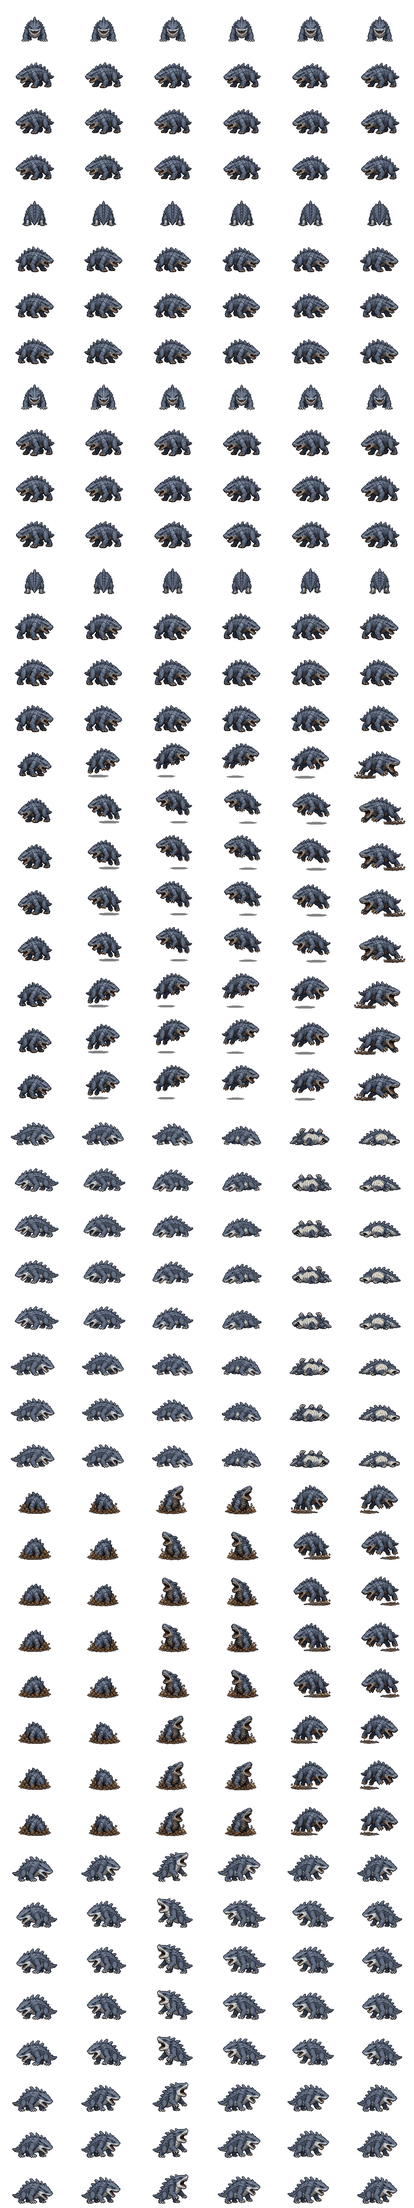
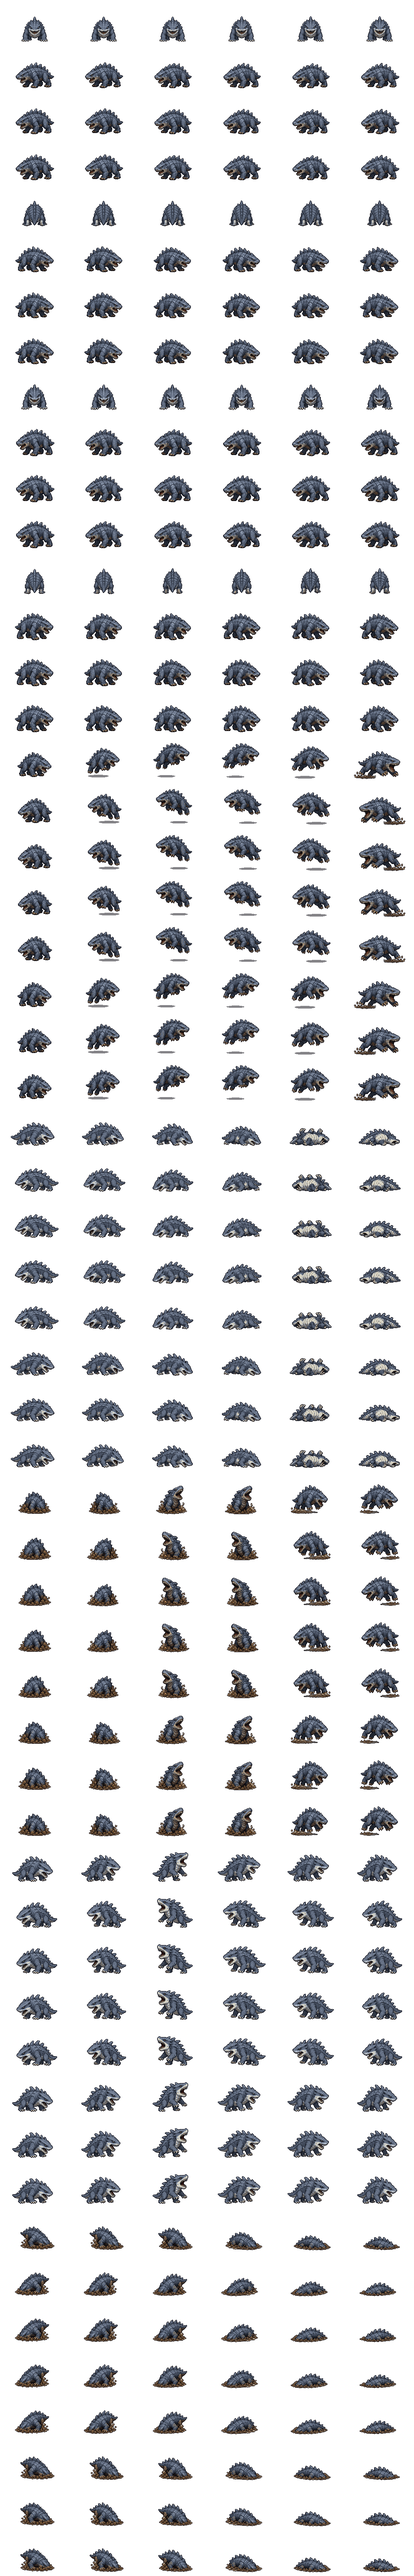
DEEP16: the bulette burrows -- under the road as a mound, up beside you, its Burrow and Emerge rows
SRD 5.1 burrow 40 ft (foes.js; "the burrow is not read" retired). Under the ground it is out of
every reach (u.under for the look, u.ethereal for the rules: no blow, spell or opportunity attack,
it passes under feet) and drawn as the last frame of its Burrow row, the mound and its spines
sliding where it goes. ai.js burrower: up with someone in reach it fights (brute) unless bloodied
with two at it; otherwise it dives, goes under to the weakest it can reach and comes up beside
them, or 15-30 ft off when its Deadly Leap is ready; it stays up through the party's turns, and
never goes through the rock (or a map marked noBurrow). The Breach starts it under the road.
tools/bulette-sheet.py cuts the Burrow row it had shelved since 09-29; pixelate.py learns the
row's name. Bench: the Breach 6/6 won, about 4 rounds; dev/check.py GREEN.

diff --git a/deep16/js/ai.js b/deep16/js/ai.js
@@ -47,7 +47,7 @@
     if (u.conds.recoiling) { delete u.conds.recoiling; B.card(['{g}' + the(B, u) + ' recoils from the light, shrinking up away from it: no turn.{/}']); yield 30; return; }
     if (u.hp <= 0) { B.card(['{g}' + u.name + ' is down.{/}']); yield 30; return; }
     if (!RU.canAct(u) && !u.ethereal) { B.card(['{g}' + (u.side === 'foe' ? the(B, u) : u.name) + (u.conds.asleep ? ' sleeps.' : u.conds.paralyzed ? ' is held fast.' : u.conds.stunned ? ' is stunned.' : ' cannot act.') + '{/}']); yield 30; D.magic.endTurn(B, u); return; }
-    if (!u.ethereal) B.focus(u);
+    if (!u.ethereal || u.under) B.focus(u); // (a burrower under the ground: the camera on its mound)
     // the clacker strikes its hooks together as its turn begins, the clacking that is their speech (10-01, Griz's sheet's CLACK row;
     // data/foes.js clacker): the row plays once (js/ui.js), a clack on each strike, then the turn
     if (u.kind && D.FOES[u.kind] && D.FOES[u.kind].clacks && !u.conds.banished) {
@@ -77,6 +77,7 @@
     else if ((u.summon || u.dominated || u.loose) && !u.classAI) yield* brute(B, u); // a summoned creature, or a beast dominated for its caster (js/grimoire.js) (js/grimoire.js summonSpell): it fights for its caster's side, as if commanded (RULED 09-30)
     else if (u.classAI && D.tactics) yield* D.tactics.turn(B, u); // a class NPC (js/classes.js), or a hero on the bench: the class's own tactics (js/tactics.js)
     else if (u.kind === 'phasespider') yield* spider(B, u);
+    else if (u.burrow && u.side === 'foe') yield* burrower(B, u); // (the bulette: under the ground and up beside you, 10-01d)
     else if (u.kind === 'drow') yield* drow(B, u);
     else if (u.kind === 'drider') yield* drider(B, u);
     else if (u.weave) yield* weaver(B, u);
@@ -500,6 +501,73 @@
     }
     return true;
   }
+  // ------------------------------------------------------------------ a burrower (the bulette, SRD 5.1 "burrow 40 ft."; Griz 10-01d: "go ahead and
+  // wire in the bulette"). Under the ground it is out of every reach -- u.under for the look (its mound: js/ui.js), u.ethereal for the rules, so no
+  // blow, spell or opportunity attack finds it and it passes under feet -- and it hunts by its tremorsense (blindsight on the sheet). Up, with
+  // someone in its reach, it fights where it stands (brute), unless it is bloodied with two at it; with no one in reach, or so pressed, it dives
+  // (its Burrow row), goes under to the one it wants and comes up beside them (its Emerge row) -- or 15 to 30 ft off when its Leap is ready, the
+  // jump the Deadly Leap asks for -- and fights. It comes up only where its body has room, and stays up through the party's turns (the seat's
+  // call, 10-01d: never up, bite and down again in one turn). Its ground is any open floor, never the rock (SRD 5.1: "A monster can't burrow
+  // through solid rock"), and not a map whose floor is worked stone (a map's `noBurrow`). Moving under, it has its burrow speed
+  function canDig(B, u) { return u.burrow > 0 && !(B.map && B.map.def && B.map.def.noBurrow) && !u.conds.restrained && !u.conds.prone && !(u.holding && u.holding.length); }
+  function* sink(B, u) {
+    u.anim = 'burrow'; u.animT = B.t; D.sfx('earth'); FX.ring(u, 'stone', 30);
+    B.card(['{r}' + the(B, u) + '{/} dives into the ground!  {g}(burrowing: it cannot be seen, struck or blocked till it comes up){/}'], 300);
+    yield Math.max(24, D.spr.duration(u.sheet, 'burrow') || 0);
+    u.under = true; u.ethereal = true; u.anim = 'idle';
+  }
+  function* rise(B, u, tgt) {
+    u.under = false; u.ethereal = false; B.focus(u);
+    if (tgt) u.facing = B.faceTo(u, tgt);
+    u.anim = 'reveal'; u.animT = B.t; D.sfx('earth'); FX.ring(u, 'stone', 40);
+    B.card(['{r}' + the(B, u) + '{/} bursts up out of the ground' + (tgt ? (G.dist(u, tgt) <= reachOf(u) ? ' beside ' : ' near ') + tgt.name : '') + '!'], 300);
+    yield Math.max(24, D.spr.duration(u.sheet, 'reveal') || 0);
+    u.anim = 'idle';
+  }
+  function* burrower(B, u) {
+    var T = u.turn, hs = heroes(B, u), L = u.leap, pressed = false;
+    if (!u.under) {
+      var inReach = hs.filter(function (w) { return G.dist(u, w) <= reachOf(u); });
+      pressed = u.hp <= u.maxhp / 2 && inReach.length >= 2;
+      if (!hs.length || !canDig(B, u) || (inReach.length && !pressed)) { yield* brute(B, u); return; }
+      yield* sink(B, u);
+    }
+    var all = hs;
+    if (pressed) { var away = hs.filter(function (w) { return inReach.indexOf(w) < 0; }); if (away.length) hs = away; } // (somewhere else: not the two at it)
+    // the Leap's recharge, before it picks where to come up (brute does not roll it again this turn)
+    if (L && !L.ready && D.d(6) >= L.recharge) L.ready = true;
+    T.recharged = true;
+    if (!hs.length) { B.card(['{g}The ground heaves: something moves under it.{/}'], 160); yield 16; return; }
+    var m0 = T.move, cap = Math.min(m0, u.burrow), rm = G.reach(u, cap, { ghost: true }), leapNow = !!(L && L.ready && T.action);
+    // where to come up: beside the weakest it can reach this turn (or, Leap ready, 15-30 ft off with a clear jump), the shortest dig first
+    function pick(leapBand) {
+      var best = null, bs = Infinity;
+      hs.forEach(function (t) {
+        Object.keys(rm).forEach(function (k) {
+          var e = rm[k], d = G.dist(u, t, e.x, e.y);
+          if (leapBand ? d < 15 || d > Math.min(30, L.range) : d > reachOf(u)) return;
+          if (!G.canStand(u, e.x, e.y)) return; // (room for its body: it comes up where no one stands)
+          if (leapBand && !G.los(u, t, e.x, e.y).clear) return;
+          var s = (t.hp / t.maxhp) * 100 + e.cost / 5;
+          if (pressed) s += 60 * all.filter(function (w) { return w !== t && G.dist(u, w, e.x, e.y) <= reachOf(u); }).length; // (it dove to get clear: not up among them again)
+          if (s < bs) { bs = s; best = { e: e, t: t }; }
+        });
+      });
+      return best;
+    }
+    var up = (leapNow && pick(true)) || pick(false);
+    if (!up) {
+      // no one it can reach this turn: closer, under the ground
+      var near = hs.slice().sort(function (a, b) { return G.dist(u, a) - G.dist(u, b); })[0], e0 = approach(u, near, rm);
+      if (e0 && (e0.x !== u.x || e0.y !== u.y)) { T.move = cap; yield* walkTo(B, u, e0, { ghost: true }); T.move = Math.max(0, m0 - (cap - T.move)); }
+      B.card(['{g}The ground heaves: something moves under it' + (near ? ', toward ' + near.name : '') + '.{/}'], 200); yield 16;
+      return;
+    }
+    T.move = cap; yield* walkTo(B, u, up.e, { ghost: true }); T.move = Math.max(0, m0 - (cap - T.move));
+    if (u.dead || u.hp <= 0) return;
+    yield* rise(B, u, up.t);
+    yield* brute(B, u); // (the Leap if it is ready, else the bite)
+  }
   function* brute(B, u) {
     var T = u.turn, hs = heroes(B, u), grudge = false;
     // the darkness attacks back (the gimmick, magic.js): the one the darts found comes for the caster this turn, nothing else
@@ -546,8 +614,8 @@
     // it bolts (the wheelwright, when Hask is down): Dash for the map's exit and gone -- the player's opportunity attacks are
     // the only stop. (Amara and Willem, who fight only to get away, give ground a step at a time instead: shooter())
     if (u.bolts && B.units.some(function (w) { return w.kind === u.bolts && w.dead; })) { if (yield* bolt(B, u)) return; }
-    // recharges (5-6 at the start of its turn): the Moan, the Leap
-    [u.moan, u.leap].forEach(function (s) { if (s && !s.ready && D.d(6) >= s.recharge) s.ready = true; });
+    // recharges (5-6 at the start of its turn): the Moan, the Leap (once a turn: a burrower rolls before it picks where to come up -- burrower)
+    if (!T.recharged) [u.moan, u.leap].forEach(function (s) { if (s && !s.ready && D.d(6) >= s.recharge) s.ready = true; });
     // Phantasms (the cloaker when bloodied; Willem at once): three false images, its action
     if (!grudge && u.phantasms && !u.phantasms.used && T.action && (u.phantasms.when === 'start' || u.hp <= u.maxhp / 2)) {
       T.action = 0; u.phantasms.used = true; u.images = 3; D.sfx('magic'); FX.sparkle(u, 'violet', 30);

diff --git a/deep16/js/ui.js b/deep16/js/ui.js
@@ -737,7 +737,7 @@
           if (has('hurt')) { anim = 'hurt'; o.once = true; if (pf >= 0 && u.proneLook) t += Math.ceil(pf * 60 / (D.spr.anim(u.sheet, 'hurt').fps || 8)); }
           else if (u.dead) { anim = 'idle'; o.alpha = Math.max(0, 1 - (B.t - u.deadT) / 50); o.tint = R('violet', 4); o.tintAlpha = 0.5; }
           else { anim = 'idle'; o.lie = true; }
-        } else if (anim === 'attack' || anim === 'cast' || anim === 'flinch' || anim === 'clack') { o.once = true; if (!has(anim) || t > D.spr.duration(u.sheet, anim) + 6) { anim = 'idle'; o.once = false; } } // (back to idle, and idle loops: the flinch's once held its last frame on anyone struck who then did not act -- the landlord, 09-30g)
+        } else if (anim === 'attack' || anim === 'cast' || anim === 'flinch' || anim === 'clack' || anim === 'burrow' || anim === 'reveal') { o.once = true; if (!has(anim) || t > D.spr.duration(u.sheet, anim) + 6) { anim = 'idle'; o.once = false; } } // (back to idle, and idle loops: the flinch's once held its last frame on anyone struck who then did not act -- the landlord, 09-30g)
         if (anim === 'idle' || anim === 'walk' || anim === 'roost' || anim === 'braid' || anim === 'run') t =u.conds.paralyzed || u.conds.asleep ? 0 : B.t + (u.id ? u.id.length * 7 : 0);
         // a hyena helpless with laughter rolls on the floor with it, for as long as it laughs (Hideous Laughter's easter egg, 09-30: js/grimoire.js M.hyena)
         if (!down && u.conds.laughing && has('rofl')) { anim = 'rofl'; o.once = false; t = B.t + (u.id ? u.id.length * 7 : 0); }
@@ -746,7 +746,11 @@
           if (u.proneLook) { anim = 'hurt'; o.frame = Math.min(pk, pf); }
           else if (pk < pf) { anim = 'hurt'; o.frame = pf - 1 - pk; } // (getting up)
         }
-        if (u.ethereal) { o.alpha = 0.16 + 0.06 * Math.sin(B.t / 9); o.tint = R('violet', 5); o.tintAlpha = 0.9; }
+        // under the ground (a burrower, js/ai.js, 10-01d): its mound, the Burrow row's last frame, sliding where it goes -- "like a fin through
+        // water" (the 8-bit game's line for the bulette); a sheet with no Burrow row, the ethereal ghost below in earth's colour
+        if (u.under && !down && has('burrow')) { anim = 'burrow'; o.frame = D.spr.anim(u.sheet, 'burrow').frames - 1; o.once = false; }
+        else if (u.under && !down) { o.alpha = 0.3; o.tint = R('leather', 2); o.tintAlpha = 0.9; }
+        else if (u.ethereal) { o.alpha = 0.16 + 0.06 * Math.sin(B.t / 9); o.tint = R('violet', 5); o.tintAlpha = 0.9; }
         if ((u.conds.hidden || u.conds.invisible) && !down) o.alpha = 0.5;
         if ((B.darks || []).length && D.magic.inDark(B, u)) o.alpha = u.side === 'foe' ? 0.2 : 0.5; // (inside the darkness: a shape, if that)
         // in the dark where no one of the party sees (torchdark 09-28): the player sees it still, grey and faint; by darkvision, grey
@@ -1312,7 +1316,8 @@
   }
   function conds(w) {
     var c = [];
-    if (w.ethereal && !(w.conds.stoning && w.conds.stoning.done)) c.push('{p}ethereal{/}'); // (a hero turned to stone is out of the world too, but says stone below)
+    if (w.under) c.push('{o}under the ground{/}'); // (a burrower: out of reach till it comes up, js/ai.js)
+    else if (w.ethereal && !(w.conds.stoning && w.conds.stoning.done)) c.push('{p}ethereal{/}'); // (a hero turned to stone is out of the world too, but says stone below)
     if (w.conds.poisoned) c.push('{n}poisoned{/}');
     if (w.conds.sickened) c.push('{n}sickened{/}'); // (Eyebite's: a WIS save at each turn's end)
     if (w.conds.contagion) c.push('{n}diseased{/}'); // (Contagion: poisoned too, the save at each turn's end)
@@ -1442,7 +1447,7 @@
     ctx.save(); ctx.beginPath(); ctx.rect(44, BAR_Y + 29, BX - 48, 12); ctx.clip(); // a long line of conditions stops short of the keys
     D.text(ctx, conds(u).trim() || (u.slots && u.slots.length ? 'slots ' + u.slots.map(function (n, i) { return (i + 1) + ':' + n; }).join(' ') : ''), 44, BAR_Y + 31, R('accent', 2));
     ctx.restore();
-    if (!hero) { D.text(ctx, u.ethereal ? 'moving unseen...' : 'its turn', BX, BAR_Y + 16, R('accent', 2)); return; }
+    if (!hero) { D.text(ctx, u.under ? 'under the ground...' : u.ethereal ? 'moving unseen...' : 'its turn', BX, BAR_Y + 16, R('accent', 2)); return; }
     var T = u.turn, px = clx + D.textWidth(cl) + 6;
     // BARM: bonus, action, reaction, move (the feet left) -- lit while there's one to spend (Griz, 09-27: "BARM #" after the class)
     [['B', T.bonus > 0, R('glow', 2)], ['A', T.action > 0 || T.attacksLeft > 0, R('gold', 3)], ['R', u.reaction > 0, R('violet', 4)], ['M ' + T.move, T.move > 0, R('glow', 1)]]

diff --git a/deep16/js/battle.js b/deep16/js/battle.js
@@ -165,7 +165,7 @@
       if (!best) { console.warn('DEEP16: no room for the 8-bit game\'s ' + e.kind); return; }
       mark(best[0], best[1], s);
       var hidden = like ? like.hidden : spots.length && spots.every(function (p) { return p.hidden; });
-      out.push({ id: e.kind + '-' + e.i8, kind: e.kind, at: best, hidden: !!hidden, ethereal: !!(like && like.ethereal), i8: e.i8 });
+      out.push({ id: e.kind + '-' + e.i8, kind: e.kind, at: best, hidden: !!hidden, ethereal: !!(like && like.ethereal), under: !!(like && like.under), i8: e.i8 });
     });
     return out.sort(function (a, b) { return a.i8 - b.i8; });
   };
@@ -213,7 +213,10 @@
       secondWind: d.secondWind || null, actionSurge: !!d.actionSurge,
       web: d.web ? { atk: d.web.atk, range: d.web.range, dc: d.web.dc, recharge: d.web.recharge, ready: true } : null,
       slam: d.slam || null, bound: d.bound || null, martial: d.martial || null, surprise: d.surprise || null, holding: [],
-      ethereal: !!f.ethereal, // a phase spider may start in the rock (the north cut: "They come out of the walls")
+      ethereal: !!f.ethereal || !!f.under, // a phase spider may start in the rock (the north cut: "They come out of the walls")
+      // a burrower (SRD 5.1 burrow; the bulette, 10-01d: js/ai.js burrower): under the ground it is out of reach the way an ethereal one is
+      // (ethereal too, for every rule that asks), drawn as its mound (js/ui.js); a fight may start it there (fights.js `under`)
+      burrow: d.burrow || 0, under: !!f.under,
       weave: d.weave ? JSON.parse(JSON.stringify(d.weave)) : null, sneak: d.sneak || null, assassinate: !!d.assassinate, stealth: d.stealth || 0,
       enlarge: d.enlarge ? { dice: d.enlarge.dice, used: false } : null, split: !!d.split, small: d.small || null,
       bolts: d.bolts || null, // runs for the map's exit when the named one falls (the wheelwright, when Hask does)

diff --git a/deep16/data/foes.js b/deep16/data/foes.js
@@ -367,8 +367,8 @@
     abil: { str: 19, dex: 11, con: 21, int: 2, wis: 10, cha: 5 }, init: 0, perception: 16,
     saves: { str: 4, dex: 0, con: 5, int: -4, wis: 0, cha: -3 },
     attacks: { bite: { name: 'Bite', atk: 7, dice: '4d12', mod: 4, type: 'piercing', reach: 5 } },
-    multi: 1, leap: { dc: 16, dice: '6d6', targets: 2, range: 40, recharge: 5 },
-    src: 'SRD 5.1 Bulette (CR 5, Large); content/monsters.json bulette (its Deadly Leap as the 8-bit game reads it: DEX 16, 6d6, two of them, half on a save and prone on a failure; recharge 5-6)', todo: 'the burrow is not read'
+    multi: 1, leap: { dc: 16, dice: '6d6', targets: 2, range: 40, recharge: 5 }, burrow: 40,
+    src: 'SRD 5.1 Bulette (CR 5, Large; burrow 40 ft: js/ai.js burrower, 10-01d); content/monsters.json bulette (its Deadly Leap as the 8-bit game reads it: DEX 16, 6d6, two of them, half on a save and prone on a failure; recharge 5-6)'
   },
   cloaker: {
     name: 'Cloaker', type: 'aberration', sheet: 'cloaker_p2', cr: '8', ac: 14, hp: 78, speed: 40, size: 2, reach: 5, darkvision: 60,

diff --git a/deep16/data/fights.js b/deep16/data/fights.js
@@ -168,7 +168,7 @@
     { id: 'bulette', level: 5, map: 'breach', name: 'The Breach', sub: 'the king\'s road, leg two', music: 'boss',
       intro: 'The road bucks. Out of a breach in the south wall, rough-cut and new, something armored comes up through the stone like a fin through water.',
       from: 'the 8-bit game: deep.js S.bulette (one bulette; two with the king)', won: 'THERE IS NO RUNE FOR A HOLE A BEAST DUG.',
-      foes: [{ id: 'bul', kind: 'bulette', at: [9, 1] }], wave: null },
+      foes: [{ id: 'bul', kind: 'bulette', at: [9, 1], under: true }], wave: null }, // (under: it starts beneath the road and comes up through it, 10-01d)
     // the gimmick's home (Griz, 09-28: "the first 16-bit fight with a cloaker in which Aurdin magic-missiles a cloaker ... a quick cutscene
     // close-up of Aurdin and then that mp3, then a close up of the cloaker showing it hit, then big close up cloaker face"): the first
     // Magic Missile thrown at the darkness here is the cutscene (magic.js darts, ui.js scene), and the cloaker comes for the caster

diff --git a/deep16/data/sprites.js b/deep16/data/sprites.js
@@ -593,7 +593,7 @@
 }
 },
 "bulette_p2": {
-"image": "art/bulette_p2.png?v=a56a4d5b25",
+"image": "art/bulette_p2.png?v=20d83e2228",
 "fw": 180,
 "fh": 120,
 "ax": 90,
@@ -653,6 +653,15 @@
 "ay": 108,
 "frames": 6,
 "fps": 12
+},
+"burrow": {
+"y": 5760,
+"fw": 180,
+"fh": 120,
+"ax": 90,
+"ay": 108,
+"frames": 6,
+"fps": 8
 }
 },
 "source": "generated by Griz (2026-09-29, two sheets), keyed off the checkerboard and the flat ground and snapped by tools/bulette-sheet.py"

diff --git a/deep16/index.html b/deep16/index.html
@@ -74,7 +74,7 @@
 <script src="js/art.js?v=1b2a34fbd2"></script>
 <script src="data/cavern.js?v=bb07571b02"></script>
 <script src="data/maps.js?v=a090bc8af2"></script>
-<script src="data/sprites.js?v=9fd49ed1f2"></script>
+<script src="data/sprites.js?v=d1ece751a2"></script>
 <script src="js/sprites.js?v=957e771eee"></script>
 <script src="js/save.js?v=332619ebf8"></script>
 <script src="data/spells.js?v=a92988673a"></script>

diff --git a/tools/bulette-sheet.py b/tools/bulette-sheet.py
@@ -8,8 +8,7 @@ Sources (Griz, 2026-09-29, generated; a new route, and the second sheet came the
       (the plaques say 8 frames for the idle and the walk; six are drawn). Five rows of six:
         Idle       standing, the head and jaws moving a little
         Walk       the same figure walking
-        Burrow     sinking into a mound of dirt (UNUSED for now: the engine has no burrow anim; it is cut and checked here, kept in
-                   the source for when the ambush gets one)
+        Burrow     sinking into a mound of dirt (shelved till 10-01d, when the burrow was wired: Griz, "go ahead and wire in the bulette")
         Emerge     bursting up out of a mound, rearing, and landing running: the flying dirt clods are part of the figure
         Leap Bite  crouch, leap, jaws first and down, a ground shadow under the airborne frames, a splash of dirt at the landing
   deep16/_src/bulette_grok_2.jpg  on a flat dark navy ground (row labels at the far left and a number under every frame, both dropped),
@@ -21,7 +20,9 @@ for the west side and for N, the cloaker's way):
   walk    the six side facings: sheet 1's Walk row. S: Walk Toward, N: Walk Away
   attack  sheet 1's Leap Bite row (Deadly Leap), six frames, every facing (S and N use the side frames: the leap has no front or back view);
           the ground shadow under the airborne frames is kept (see below)
-  reveal  sheet 1's Emerge row, every facing (for later: a burrowing bulette coming up out of the floor)
+  reveal  sheet 1's Emerge row, every facing: coming up out of the ground (ai.js burrower, 10-01d)
+  burrow  sheet 1's Burrow row, every facing: going under, played once; its last frame, the mound, is the bulette while it is under
+          (js/ui.js; 10-01d)
   flinch  sheet 2's Hurt row, every facing: a blow that lands and does not drop it, played once (the engine's `hurt` is the death)
   hurt    sheet 2's Death row, every facing: the engine plays `hurt` once when a creature goes down (the convention every generated sheet follows)
 The key, sheet 1: the checker is the neutral pixels (its two greys and white, and the lighter half of a ground shadow) joined to the sheet's
@@ -257,19 +258,19 @@ def build_frames():
     s1 = sc(r1['idle'])                                         # sheet 1's rows share the Idle row's
     s2 = r2['hurt'][0]['h'] / HEIGHT                            # the Hurt and Death rows: the Hurt row's first frame, standing
     idle_r, walk_r = side(r1['idle'], s1), side(r1['walk'], s1)
-    atk_r, rev_r = side(r1['leap'], s1, True), side(r1['emerge'], s1, True)
+    atk_r, rev_r, bur_r = side(r1['leap'], s1, True), side(r1['emerge'], s1, True), side(r1['burrow'], s1, True)
     flinch_r, death_r = side(r2['hurt'], s2), side(r2['death'], s2)
     fS, fN = side(r2['front'], sc(r2['front']))[0], side(r2['back'], sc(r2['back']))[0]
     walkS, walkN = side(r2['toward'], sc(r2['toward'])), side(r2['away'], sc(r2['away']))
     # the mirror is exact on the anchor: the frame is even wide, so a flip lands AX on AX - 1, and the roll puts it back
     mirror = lambda seq: [np.roll(fr[:, ::-1], 1, axis=1).copy() for fr in seq]
-    idle_l, walk_l, atk_l, rev_l, flinch_l, death_l = (mirror(s) for s in (idle_r, walk_r, atk_r, rev_r, flinch_r, death_r))
-    frames = {'idle': [], 'walk': [], 'attack': [], 'hurt': [], 'flinch': [], 'reveal': []}
+    idle_l, walk_l, atk_l, rev_l, bur_l, flinch_l, death_l = (mirror(s) for s in (idle_r, walk_r, atk_r, rev_r, bur_r, flinch_r, death_r))
+    frames = {'idle': [], 'walk': [], 'attack': [], 'hurt': [], 'flinch': [], 'reveal': [], 'burrow': []}
     for f in range(8):                                        # facings S, SW, W, NW, N, NE, E, SE: S and the east side as drawn, the rest mirrored
         r = f in (0, 5, 6, 7)
         frames['idle'].append([fS] * 3 + [breathe(fS)] * 3 if f == 0 else [fN] * 3 + [breathe(fN)] * 3 if f == 4 else idle_r if r else idle_l)
         frames['walk'].append(walkS if f == 0 else walkN if f == 4 else walk_r if r else walk_l)
-        frames['attack'].append(atk_r if r else atk_l); frames['reveal'].append(rev_r if r else rev_l)
+        frames['attack'].append(atk_r if r else atk_l); frames['reveal'].append(rev_r if r else rev_l); frames['burrow'].append(bur_r if r else bur_l)
         frames['flinch'].append(flinch_r if r else flinch_l); frames['hurt'].append(death_r if r else death_l)
     return frames, {'sheet 1': s1, 'sheet 2 side': s2, 'front': sc(r2['front']), 'back': sc(r2['back']), 'toward': sc(r2['toward']), 'away': sc(r2['away'])}, (r1, r2)
 
@@ -318,7 +319,7 @@ def build():
     pix.write_sheet(NAME, frames, FW, FH, AX, AY, top)
     mp = os.path.join(ROOT, 'deep16', 'art', NAME + '.json')
     meta = json.load(open(mp))
-    for a, fps in (('idle', 5), ('walk', 8), ('attack', 10), ('hurt', 8), ('flinch', 12), ('reveal', 8)):
+    for a, fps in (('idle', 5), ('walk', 8), ('attack', 10), ('hurt', 8), ('flinch', 12), ('reveal', 8), ('burrow', 8)):
         meta['anims'][a]['fps'] = fps
     meta['source'] = 'generated by Griz (2026-09-29, two sheets), keyed off the checkerboard and the flat ground and snapped by tools/bulette-sheet.py'
     json.dump(meta, open(mp, 'w'), indent=1)

diff --git a/tools/pixelate.py b/tools/pixelate.py
@@ -18,7 +18,7 @@ D16 = os.path.join(ROOT, 'deep16')
 SRC = os.path.join(D16, '_src')
 ART = os.path.join(D16, 'art')
 FPS = {'idle': 6, 'walk': 10, 'attack': 12, 'hurt': 10, 'die': 8, 'sit': 2, 'cast': 10, 'fly': 9, 'roost': 2, 'reveal': 6, 'moan': 8, 'flinch': 12}
-ANIM_ORDER = ['idle', 'walk', 'attack', 'hurt', 'die', 'sit', 'cast', 'fly', 'roost', 'reveal', 'moan', 'flinch', 'rofl', 'braid', 'run', 'clack']  # (clack: the clacker striking its hooks together at its turn's start, 10-01)  # (braid: the ettercap sitting on its stump braiding, till it sees you; run: the giant boar's charge -- both 09-30)  # (rofl: the hyena rolling on the floor with laughter, 09-30: the Hideous Laughter easter egg)  # (flinch: a blow that lands and doesn't drop it, played once: the generated sheets' hit rows, 09-29)  # (fly: the cloaker's flight in, played as drawn -- the easter egg's ending)  # (cast: the spellcasters' own pose, the spell animation pass 09-28h)
+ANIM_ORDER = ['idle', 'walk', 'attack', 'hurt', 'die', 'sit', 'cast', 'fly', 'roost', 'reveal', 'moan', 'flinch', 'rofl', 'braid', 'run', 'clack', 'burrow']  # (burrow: going under, the bulette's, its last frame the mound it is while under -- 10-01d)  # (clack: the clacker striking its hooks together at its turn's start, 10-01)  # (braid: the ettercap sitting on its stump braiding, till it sees you; run: the giant boar's charge -- both 09-30)  # (rofl: the hyena rolling on the floor with laughter, 09-30: the Hideous Laughter easter egg)  # (flinch: a blow that lands and doesn't drop it, played once: the generated sheets' hit rows, 09-29)  # (fly: the cloaker's flight in, played as drawn -- the easter egg's ending)  # (cast: the spellcasters' own pose, the spell animation pass 09-28h)
 # LPC has four directions; the eight facings take the nearest, the front and back diagonals leaning to down and up
 LPC_ROW = {'up': 0, 'left': 1, 'down': 2, 'right': 3}
 LPC_FOR_FACING = ['down', 'down', 'left', 'up', 'up', 'up', 'right', 'down']
